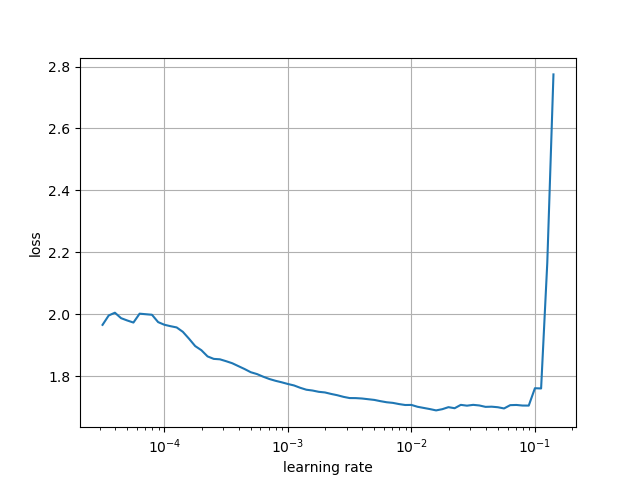
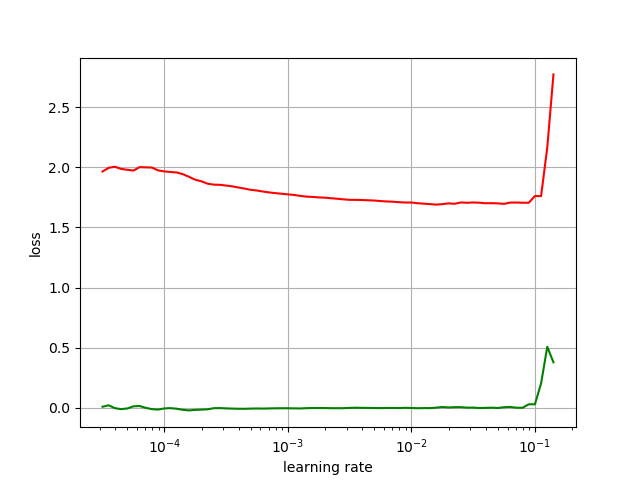
Adding Cyclic LR Training

diff --git a/CyclicLRTF2.py b/CyclicLRTF2.py
@@ -1,0 +1,139 @@
+import tensorflow as tf
+import numpy as np
+import matplotlib.pyplot as plt
+import logging
+
+class CyclicLR(tf.keras.callbacks.Callback):
+    """This callback implements a cyclical learning rate policy (CLR).
+    The method cycles the learning rate between two boundaries with
+    some constant frequency, as detailed in this paper (https://arxiv.org/abs/1506.01186).
+    The amplitude of the cycle can be scaled on a per-iteration or
+    per-cycle basis.
+    This class has three built-in policies, as put forth in the paper.
+    "triangular":
+        A basic triangular cycle w/ no amplitude scaling.
+    "triangular2":
+        A basic triangular cycle that scales initial amplitude by half each cycle.
+    "exp_range":
+        A cycle that scales initial amplitude by gamma**(cycle iterations) at each
+        cycle iteration.
+    For more detail, please see paper.
+
+    # Example
+        ```python
+            clr = CyclicLR(base_lr=0.001, max_lr=0.006,
+                                step_size=2000., mode='triangular')
+            model.fit(X_train, Y_train, callbacks=[clr])
+        ```
+
+    Class also supports custom scaling functions:
+        ```python
+            clr_fn = lambda x: 0.5*(1+np.sin(x*np.pi/2.))
+            clr = CyclicLR(base_lr=0.001, max_lr=0.006,
+                                step_size=2000., scale_fn=clr_fn,
+                                scale_mode='cycle')
+            model.fit(X_train, Y_train, callbacks=[clr])
+        ```
+    # Arguments
+        base_lr: initial learning rate which is the
+            lower boundary in the cycle.
+        max_lr: upper boundary in the cycle. Functionally,
+            it defines the cycle amplitude (max_lr - base_lr).
+            The lr at any cycle is the sum of base_lr
+            and some scaling of the amplitude; therefore
+            max_lr may not actually be reached depending on
+            scaling function.
+        step_size: number of training iterations per
+            half cycle. Authors suggest setting step_size
+            2-8 x training iterations in epoch.
+        mode: one of {triangular, triangular2, exp_range}.
+            Default 'triangular'.
+            Values correspond to policies detailed above.
+            If scale_fn is not None, this argument is ignored.
+        gamma: constant in 'exp_range' scaling function:
+            gamma**(cycle iterations)
+        scale_fn: Custom scaling policy defined by a single
+            argument lambda function, where
+            0 <= scale_fn(x) <= 1 for all x >= 0.
+            mode paramater is ignored
+        scale_mode: {'cycle', 'iterations'}.
+            Defines whether scale_fn is evaluated on
+            cycle number or cycle iterations (training
+            iterations since start of cycle). Default is 'cycle'.
+    """
+
+    def __init__(self, mode, base_lr=0.001, max_lr=0.006, step_size=2000.,
+                 gamma=1., scale_fn=None, scale_mode='cycle'):
+        super(CyclicLR, self).__init__()
+
+        self.base_lr = base_lr
+        self.max_lr = max_lr
+        self.step_size = step_size
+        self.mode = mode
+        self.gamma = gamma
+        if scale_fn == None:
+            if self.mode == 'triangular':
+                self.scale_fn = lambda x: 1.
+                self.scale_mode = 'cycle'
+            elif self.mode == 'triangular2':
+                self.scale_fn = lambda x: 1 / (2. ** (x - 1))
+                self.scale_mode = 'cycle'
+            elif self.mode == 'exp_range':
+                self.scale_fn = lambda x: gamma ** (x)
+                self.scale_mode = 'iterations'
+        else:
+            self.scale_fn = scale_fn
+            self.scale_mode = scale_mode
+        self.clr_iterations = 0.
+        self.trn_iterations = 0.
+        self.history = {}
+
+        self._reset()
+
+    def _reset(self, new_base_lr=None, new_max_lr=None,
+               new_step_size=None):
+        """Resets cycle iterations.
+        Optional boundary/step size adjustment.
+        """
+        if new_base_lr != None:
+            self.base_lr = new_base_lr
+        if new_max_lr != None:
+            self.max_lr = new_max_lr
+        if new_step_size != None:
+            self.step_size = new_step_size
+        self.clr_iterations = 0.
+
+    def update_lr(self):
+        cycle = np.floor(1 + self.clr_iterations / (2 * self.step_size))
+        x = np.abs(self.clr_iterations / self.step_size - 2 * cycle + 1)
+        if self.scale_mode == 'cycle':
+            return self.base_lr + (self.max_lr - self.base_lr) * np.maximum(0, (1 - x)) * self.scale_fn(cycle)
+        else:
+            return self.base_lr + (self.max_lr - self.base_lr) * np.maximum(0, (1 - x)) * self.scale_fn(
+                self.clr_iterations)
+
+    def on_train_begin(self, logs={}):
+        logs = logs or {}
+
+        if self.clr_iterations == 0:
+            self.model.optimizer.lr.assign(self.base_lr)
+        else:
+            self.model.optimizer.lr.assign(self.update_lr)
+
+    def on_batch_end(self, epoch, logs=None):
+        debug = True
+        logs = logs or {}
+        self.trn_iterations += 1
+        self.clr_iterations += 1
+
+        curr_lr = self.model.optimizer.lr.read_value()
+        if debug:
+            print('[DEBUG] Current LR = ', curr_lr.numpy())
+        self.history.setdefault('lr', []).append(curr_lr)
+        self.history.setdefault('iterations', []).append(self.trn_iterations)
+
+        for k, v in logs.items():
+            self.history.setdefault(k, []).append(v)
+
+        updated_lr = self.update_lr()
+        self.model.optimizer.lr.assign(updated_lr)

diff --git a/custom_callbacks.py b/custom_callbacks.py
@@ -1,18 +1,34 @@
 import os
 import tensorflow as tf
 import project_params as pp
+from CyclicLRTF2 import CyclicLR
 
 model_dir = pp.exp_checkpoint_path
 csv_logger_path = os.path.join(model_dir, 'training_log.csv')
 custom_period = 3
-custom_patience = 5
+custom_patience = 8
+##step size is generally 2 to 10 times of number of epochs in an iteration
+cyclic_lr_step = 1000
 
-callbacks = [
-    tf.keras.callbacks.EarlyStopping(patience=custom_patience, monitor='val_acc',
-                                     restore_best_weights=True),
-    tf.keras.callbacks.TensorBoard(log_dir=model_dir, histogram_freq=0, write_graph=True),
-    tf.keras.callbacks.CSVLogger(csv_logger_path),
-    tf.keras.callbacks.ModelCheckpoint(
-        os.path.join(model_dir, 'weights-epoch{epoch:02d}-loss{val_loss:.2f}.h5'), monitor='val_accuracy', verbose=1,
-        period=custom_period, mode='max')
-]
+if pp.exp_cyclic_policy==True:
+    callbacks = [
+        tf.keras.callbacks.EarlyStopping(patience=custom_patience, monitor='val_acc',
+                                         restore_best_weights=True),
+        tf.keras.callbacks.TensorBoard(log_dir=model_dir, histogram_freq=0, write_graph=True),
+        tf.keras.callbacks.CSVLogger(csv_logger_path),
+        tf.keras.callbacks.ModelCheckpoint(
+            os.path.join(model_dir, 'weights-epoch{epoch:02d}-loss{val_loss:.2f}.h5'), monitor='val_accuracy', verbose=1,
+            period=custom_period, mode='max'),
+        CyclicLR(mode='triangular', base_lr=0.00055, max_lr=0.01, step_size=cyclic_lr_step)
+    ]
+else:
+    callbacks = [
+        tf.keras.callbacks.EarlyStopping(patience=custom_patience, monitor='val_acc',
+                                         restore_best_weights=True),
+        tf.keras.callbacks.TensorBoard(log_dir=model_dir, histogram_freq=0, write_graph=True),
+        tf.keras.callbacks.CSVLogger(csv_logger_path),
+        tf.keras.callbacks.ModelCheckpoint(
+            os.path.join(model_dir, 'weights-epoch{epoch:02d}-loss{val_loss:.2f}.h5'), monitor='val_accuracy',
+            verbose=1,
+            period=custom_period, mode='max')
+    ]

diff --git a/project_params.py b/project_params.py
@@ -6,7 +6,7 @@ if len(sys.argv) < 3:
     print('Error: Please pass the CFG File path')
     #exit(-1)
 
-cfg_file_name = 'params.cfg' #sys.argv[1]
+cfg_file_name = 'params_cyclic_lr.cfg' #sys.argv[1]
 print('### WARNING: Make sure name of the CFG file is correct ###')
 print('### Name of CFG File ----> ', cfg_file_name)
 time.sleep(2)
@@ -17,11 +17,12 @@ Project_Name = parse_exp_path_ob.get_project_name()
 Unstructred_Data_Path = parse_exp_path_ob.get_unstructured_data_path()
 Base_Path = parse_exp_path_ob.get_base_data_path()
 exp_checkpoint_path = parse_exp_path_ob.get_checkpoints_path()
+exp_cyclic_policy = parse_exp_path_ob.get_cyclic_lr_policy()
 
 ##create checkpoints
-restore_point = 1 #int(sys.argv[2])
-if restore_point==0:
-    img_name_helper.create_clean_dirs(exp_checkpoint_path)
+#restore_point = 1 #int(sys.argv[2])
+#if restore_point==0:
+img_name_helper.create_clean_dirs(exp_checkpoint_path)
 
 img_ext = parse_exp_path_ob.img_ext
 num_classes = parse_exp_path_ob.get_num_classes()

diff --git a/train_model_cyclic_lr.py b/train_model_cyclic_lr.py
@@ -11,7 +11,7 @@ from tf_rectified_adam import RectifiedAdam
 def show_batch(image_batch, label_batch, batch_sz):
     N = math.floor(math.sqrt(batch_sz))
     SqN = N * N
-    plt.figure(figsize=(10, 10))
+    plt.figure(figsize=(10,10))
     for n in range(SqN):
         ax = plt.subplot(N, N , n+1)
         plt.imshow(image_batch[n])
@@ -45,10 +45,11 @@ custom_model.compile(
     loss='sparse_categorical_crossentropy',
     metrics=[
         tf.keras.metrics.SparseCategoricalAccuracy(name='acc')
+        #tf.keras.metrics.SparseTopKCategoricalAccuracy(k=5, name='top5_acc')
     ])
 
-train_steps_per_epoch = math.ceil(no_train_images/ batch_sz)
-val_steps_per_epoch = math.ceil(no_validation_images/ batch_sz)
+train_steps_per_epoch = math.ceil(no_train_images / batch_sz)
+val_steps_per_epoch = math.ceil(no_validation_images / batch_sz)
 num_epochs = pp.exp_max_epochs
 
 ##Callbacks

diff --git a/CustomLrCallbacks.py b/CustomLrCallbacks.py
@@ -4,11 +4,12 @@ import logging
 
 class MyCustomCallback(tf.keras.callbacks.Callback):
 
-    def __init__(self, lr_step):
+    def __init__(self, base_lr=0.001, max_lr=0.006, step_size=2000., mode='triangular'):
         super().__init__(self)
-        self.lr_step = lr_step
-        self.list_lr = []
-        self.list_loss = []
+        self.base_lr = base_lr
+        self.max_lr = max_lr
+        self.step_size = step_size
+        self.mode = mode
         log_batch_end = logging.getLogger("batch-end-logger")
 
     def on_batch_end(self, batch, logs=None):

diff --git a/LRFinder.py b/LRFinder.py
@@ -110,7 +110,4 @@ class LRFinder(object):
         plt.grid()
         plt.savefig('loss_lr_rate.png')
         print('plot_smooth_curve exit')
-        ##To do 
-        ## Consider below URL for further implementation
-        ##https://forums.fast.ai/t/automated-learning-rate-suggester/44199 
 

diff --git a/run_experiments.py b/run_experiments.py
@@ -1,0 +1,2 @@
+import train_model
+import train_model_cylic_lr
